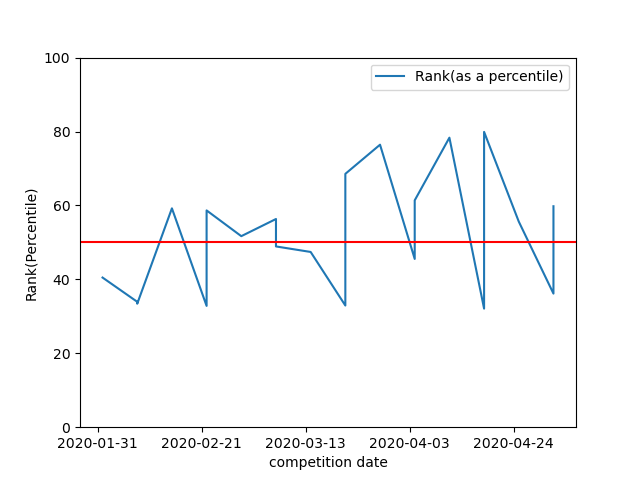
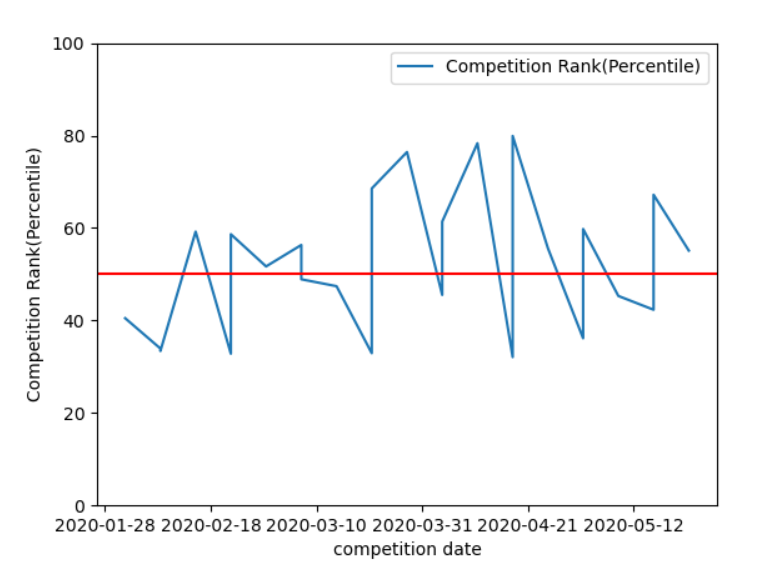
updating results and charts

Changed region(s): [[0.0312, 0.0625, 0.9688, 1.0]]

diff --git a/graphlogic.py b/graphlogic.py
@@ -4,6 +4,10 @@ import datetime
 
 
 results = [
+    ['05/23', 55.109],
+    ['05/16', 67.190],
+    ['05/16', 42.322],
+    ['05/09', 45.301],
     ['05/02', 59.783],
     ['05/02', 36.147],
     ['04/25', 55.634],

diff --git a/README.MD b/README.MD
@@ -1,7 +1,7 @@
 # My Leetcode solutions 
 
-CURRENT GLOBAL RANKING (as of 2020-05-05):
-40809 / 93873 (of active participants)
+CURRENT GLOBAL RANKING (as of 2020-05-24):
+46944 / 99851 (of active participants)
 
 ![Graph of Ranks](https://github.com/BradleyPelton/Leetcode-Solutions/blob/master/percentilechart.png)
 
@@ -11,6 +11,7 @@ CURRENT GLOBAL RANKING (as of 2020-05-05):
 - 03/28 weekly contest  RANK: 2756 / 11695 PERCENTILE: 76.434
 
 ## RECENT FINISHES
+- 05/23 weekly contest   RANK: 5331 / 11873, PERCENTILE: 55.109
 - 05/16 weekly contest   RANK: 4277 / 13036, PERCENTILE: 67.190
 - 05/16 biweekly contest RANK: 4496 / 7795, PERCENTILE: 42.322
 - 05/09 weekly contest   RANK: 6956 / 12717, PERCENTILE: 45.301
